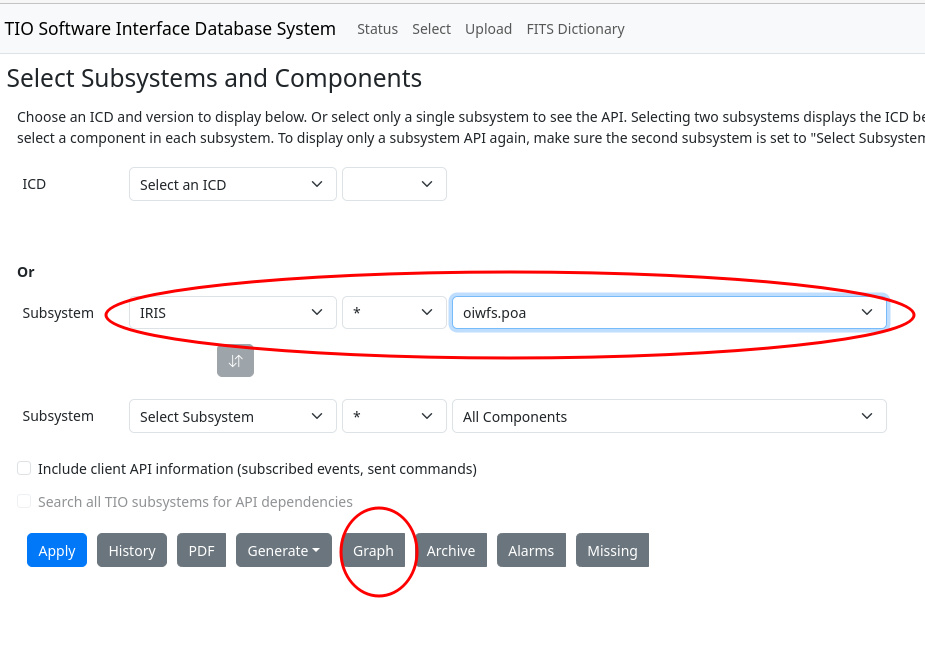
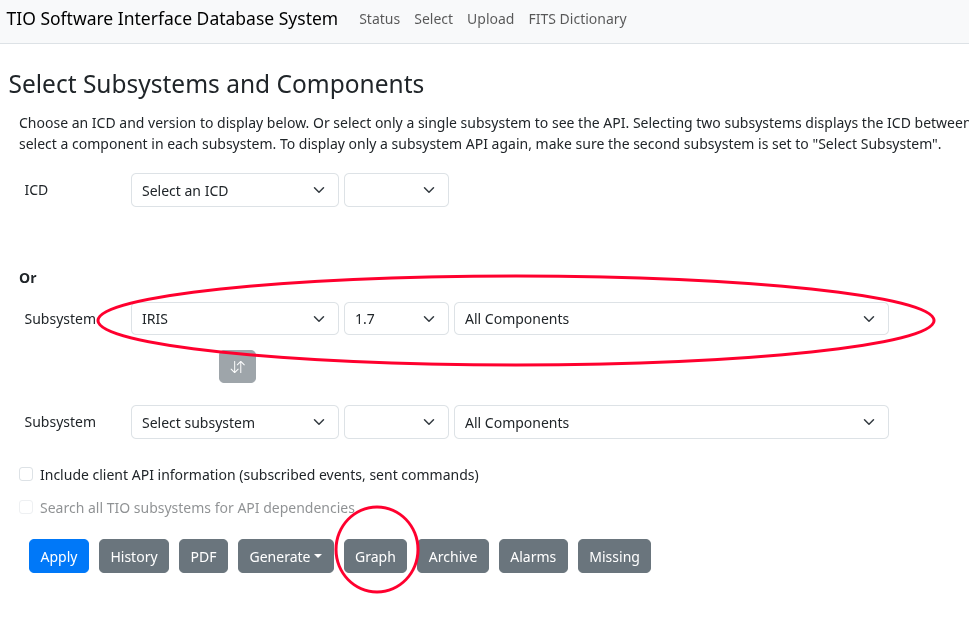
Updated doc images

diff --git a/docs/src/main/webapp/webapp.md b/docs/src/main/webapp/webapp.md
@@ -30,9 +30,8 @@ The icd web app automatically ingests the most recently released APIs and ICDs o
 Older versions of APIs are downloaded from GitHub and ingested automatically as needed. 
 You can preload the local database to include all versions of the subsystem APIs using the icd-git command line app before starting the icd web app: `icd-git --ingestAll`.
 
-You can also upload any directories containing model files that you are working on. 
-These will be the considered the “working version” or “*” in the subsystem version menu.
-The "*" version is either the last version uploaded, or the latest published API version, if there was no uploaded version, or if a more recent version was published (Note: This may change in a future release to be only the uploaded version). 
+You can also upload any top level directories containing subsystem API model files that you are working on. 
+These will be the considered the "uploaded" or working version ("uploaded" in the subsystem version menu).
 
 @@@
 
@@ -67,9 +66,9 @@ A couple of things to note: The area to the left shows a number of links. This a
 
 The content area displays all the components for the subsystem.  Clicking on one of the component links jumps to the given component’s information.
 
-The displayed API is constructed from the current versions of the models in the database, and is therefore considered an unpublished working version.  Although APIs are published by Systems Engineering, the system allows the viewing of all versions of published APIs as well as the working version as shown above (Note: the published versions of the APIs are ingested directly from the GitHub repository, whereas the unpublished models are obtained only from the local database).  To do this, select the desired version number in the dropdown menu next to the subsystem name.
+The displayed API is constructed from the current versions of the models in the database. Although APIs are published by Systems Engineering, the system allows the viewing of all versions of published APIs as well as uploaded (working versions) as shown above (Note: the published versions of the APIs are ingested directly from the GitHub repository, whereas the unpublished (uploaded) models are obtained only from the local database).  To do this, select the desired version number in the dropdown menu next to the subsystem name.
 
-Note that “master” also appears in the list of versions and is linked to the contents of the master branch of a subsystem on GitHub. The contents of the master branch are automatically uploaded to the icd database (if there was a change) whenever you refresh the web app or when running the command: `icd-git --ingest`.
+Note that “master” also appears in the list of versions and is linked to the contents of the master branch of a subsystem on GitHub. The contents of the master branch are automatically uploaded to the icd database (if there was a change) whenever you select "master" in one of the subsystem menus.
 
 ![](../images/webapp/tcsSelectVersion.png)
 
@@ -114,13 +113,13 @@ To view the API history, select a subsystem, and press the History button. The c
 
 An ICD is formed by taking the intersection of the APIs of two TMT subsystems. That means in order to create an ICD there must be at least two subsystems in the database. The TCS API is created from various subsystem to TCS ICDs that exist and the TCS CODR SDD. The definitive TCS API will be a product of the TCS work packages.
 
-It is possible to view ICDs with working/unpublished versions, with one unpublished version and one published version, or two published versions. ICDs can only be published between two published APIs.
+It is possible to view ICDs with uploaded (working/unpublished) versions, with one unpublished version and one published version, or two published versions. ICDs can only be published between two published APIs.
 
 This example will show how to view a working ICD between the published version 1.12 of the TCS API and the unpublished M1CS subsystem API.
 
 1. Upload all the working versions of the APIs needed to form an ICD.
 
-2. First select the version of the subsystem for the ICD. In the figure below the menu to the right of the subsystem shows the available versions. Version 1.12, the version published previously is selected. (To get back to the working version, select the asterisk in the menu.) Note that the content area says API for TCS 1.12 rather than the unpublished label.
+2. First select the version of the subsystem for the ICD. In the figure below the menu to the right of the subsystem shows the available versions. Version 1.12, the version published previously is selected. (To get back to the uploaded working version, select "uploaded" in the menu.) Note that the content area says API for TCS 1.12 rather than the "uploaded" label.
 
 ![](../images/webapp/select-tcs-m1cs-icd.png)
 

diff --git a/docs/src/main/idbs/overview.md b/docs/src/main/idbs/overview.md
@@ -15,7 +15,7 @@ The workflow proceeds from left to right.
 
 ![](../images/overview/fig1.jpg)
 
-The TIO developer, using Common Software for his/her components, creates component model files. These files are validated and ingested into the ICD Model File Database using either the `icd-db` command or a web application called `icdwebserver`. These were developed to work with the ICD Model File Database and provide the functionality the users of the system need. The model files are stored and published in Git repositories on GitHub. The `icd-git` application can be used to sync the local database with the published versions on GitHub. The icd web app also gets its information from the published versions on GitHub, in addition to any unpublished versions that a developer is working with locally. The `icd-viz` command line application can be used to generate a graph of component or subsystem relationships. This feature requires that [graphviz](https://graphviz.org/) is installed and is also available in the icd web app. The `icd-fits` command can be used to view information about FITS keywords and their source events.
+The TIO developer, using Common Software for his/her components, creates component model files. These files are validated and ingested into the ICD Model File Database using either the `icd-db` command or a web application called `icdwebserver`. These were developed to work with the ICD Model File Database and provide the functionality the users of the system need. The model files are stored and published in Git repositories on GitHub. The `icd-git` application can be used to sync the local database with the published versions on GitHub. The icd web app also gets its information from the published versions on GitHub, in addition to any unpublished (uploaded) versions that a developer is working with locally. The `icd-viz` command line application can be used to generate a graph of component or subsystem relationships. This feature requires that [graphviz](https://graphviz.org/) is installed and is also available in the icd web app. The `icd-fits` command can be used to view information about FITS keywords and their source events.
 
 ## icd-db
 
@@ -29,7 +29,7 @@ The IDBS browser provides the ability to browse the APIs for both published and 
 
 The current version of the IDBS browser user interface includes the following features:
 
-* Allows browsing all the subsystems and their components (including previously published versions as well as unpublished working versions).
+* Allows browsing all the subsystems and their components (including previously published versions as well as uploaded, unpublished working versions).
 * View the API for a subsystem or an individual component.
 * Browse interfaces between subsystems, or components within subsystems.
 * Upload directories containing the model files for a subsystem API
